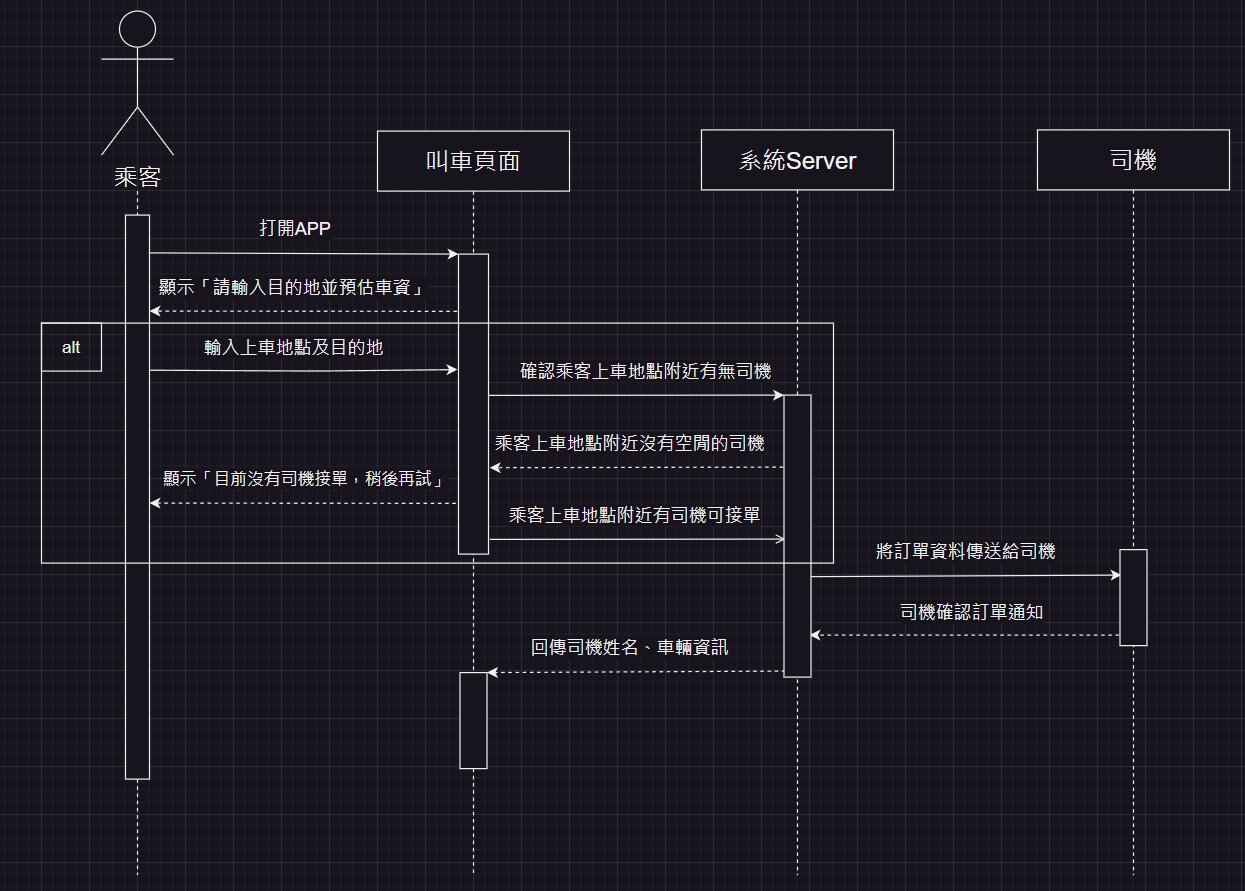
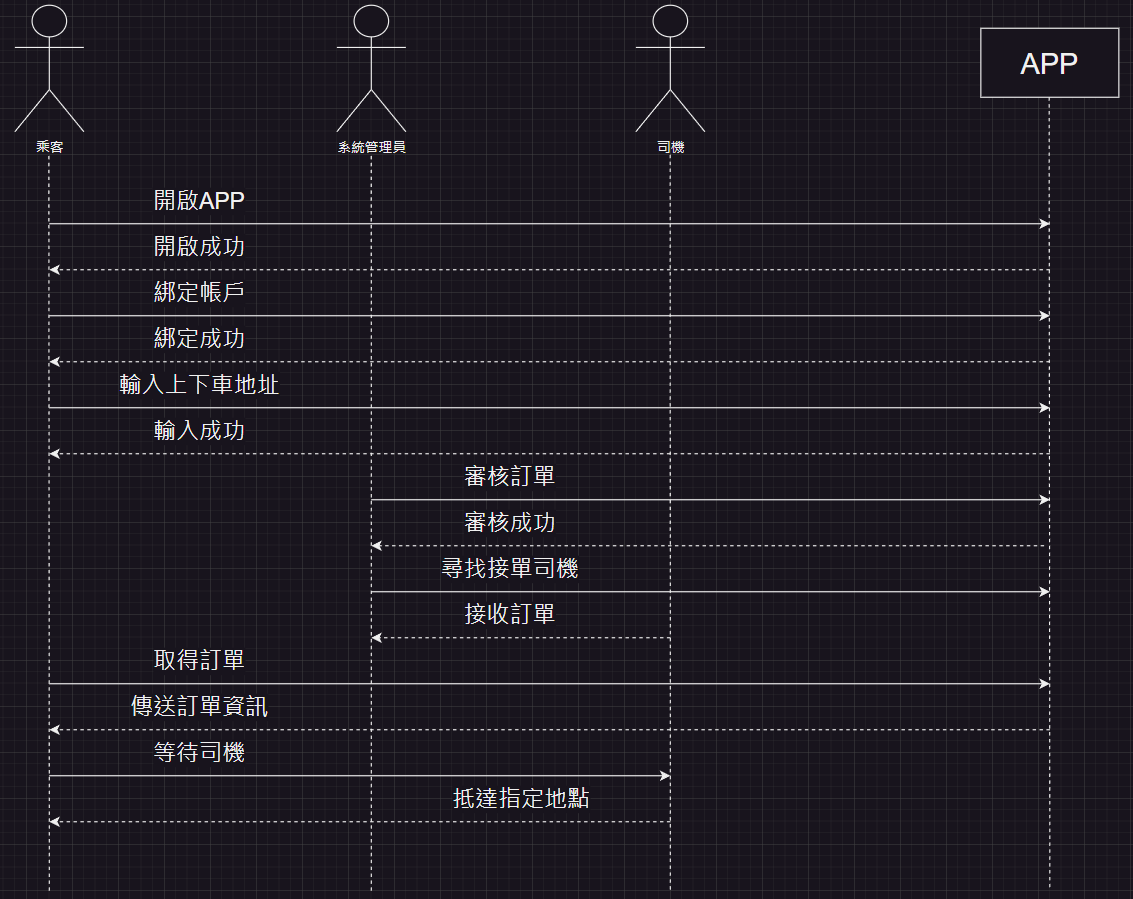
循序圖1

diff --git a/answer.md b/answer.md
@@ -41,7 +41,7 @@ LINE TAXI開發團隊|1.確保應用程式功能全面，符合市場需求。<b
 |**利害關係人與目標** |乘客：簡單的叫車流程<br/>司機：預約安排工作時間，提高效率。<br/>系統管理員：準確處理和審核乘客的訂單申請。|   
 |**前置條件** |乘客需打開APP，並進入叫車頁面點選相應的資料。|
 |**後置條件** |乘客成功搭乘計程車|  
-|**主要成功情節** |1.乘客先打開APP，進入叫車頁面</br>2.輸入指定時段及地址後，確認付款</br>3.系統審核後，司機依指定時段及地址抵達</br>4.乘客搭乘成功|   
+|**主要成功情節** |1.打開APP<br/>2.進入叫車頁面</br>3.選擇預約叫車時間</br>4.乘客輸入上下車地址</br>5.資料審核後，確認乘客附近有無司機</br>4.將訂單資料傳送給司機<br/>5.司機確認訂單通知</br>6.司機依照指定時間、地點前往載客</br>7.乘客成功搭乘|  
 <br/>
 2.
 <br/>
@@ -54,7 +54,7 @@ LINE TAXI開發團隊|1.確保應用程式功能全面，符合市場需求。<b
 |**利害關係人與目標**| 乘客：簡單的叫車流程<br/>司機：預約安排工作時間，提高效率。<br/>系統管理員：準確處理和審核乘客的訂單申請。|   
 |**前置條件** |乘客需打開APP，並進入叫車頁面點選相應的資料。|
 |**後置條件** |乘客成功搭乘計程車|  
-|**主要成功情節** |1.乘客先打開APP，進入叫車頁面</br>2.輸入上下車地址後，確認付款</br>3.系統審核後，司機依指定地址抵達</br>4.乘客搭乘成功|   
+|**主要成功情節** |1.打開APP</br>2.進入叫車頁面</br>3.乘客輸入上下車地址</br>4.資料審核後，確認乘客附近有無司機</br>5.將訂單資料傳送給司機<br/>6.司機確認訂單通知</br>7.司機依照指定地點前往載客</br>8.乘客成功搭乘| 
 <br/><div style="page-break-after: always;"></div>
 3.
 <br/>
@@ -75,4 +75,16 @@ LINE TAXI開發團隊|1.確保應用程式功能全面，符合市場需求。<b
 
 ![alt text](./初步類別圖.png)<div style="page-break-after: always;"></div>
 系統循序圖<br/>
-![alt text](./系統循序圖.png)
+1.<br/>
+![Alt text](./系統循序圖.png)<br/>
+合約1：<br/>
+使用案例：<br/>
+前置條件：<br/>
+後置條件：<br/>
+
+2.<br/>
+![Alt text](./系統循序圖2.png)<br/>
+合約2：<br/>
+使用案例：<br/>
+前置條件：<br/>
+後置條件：<br/>
